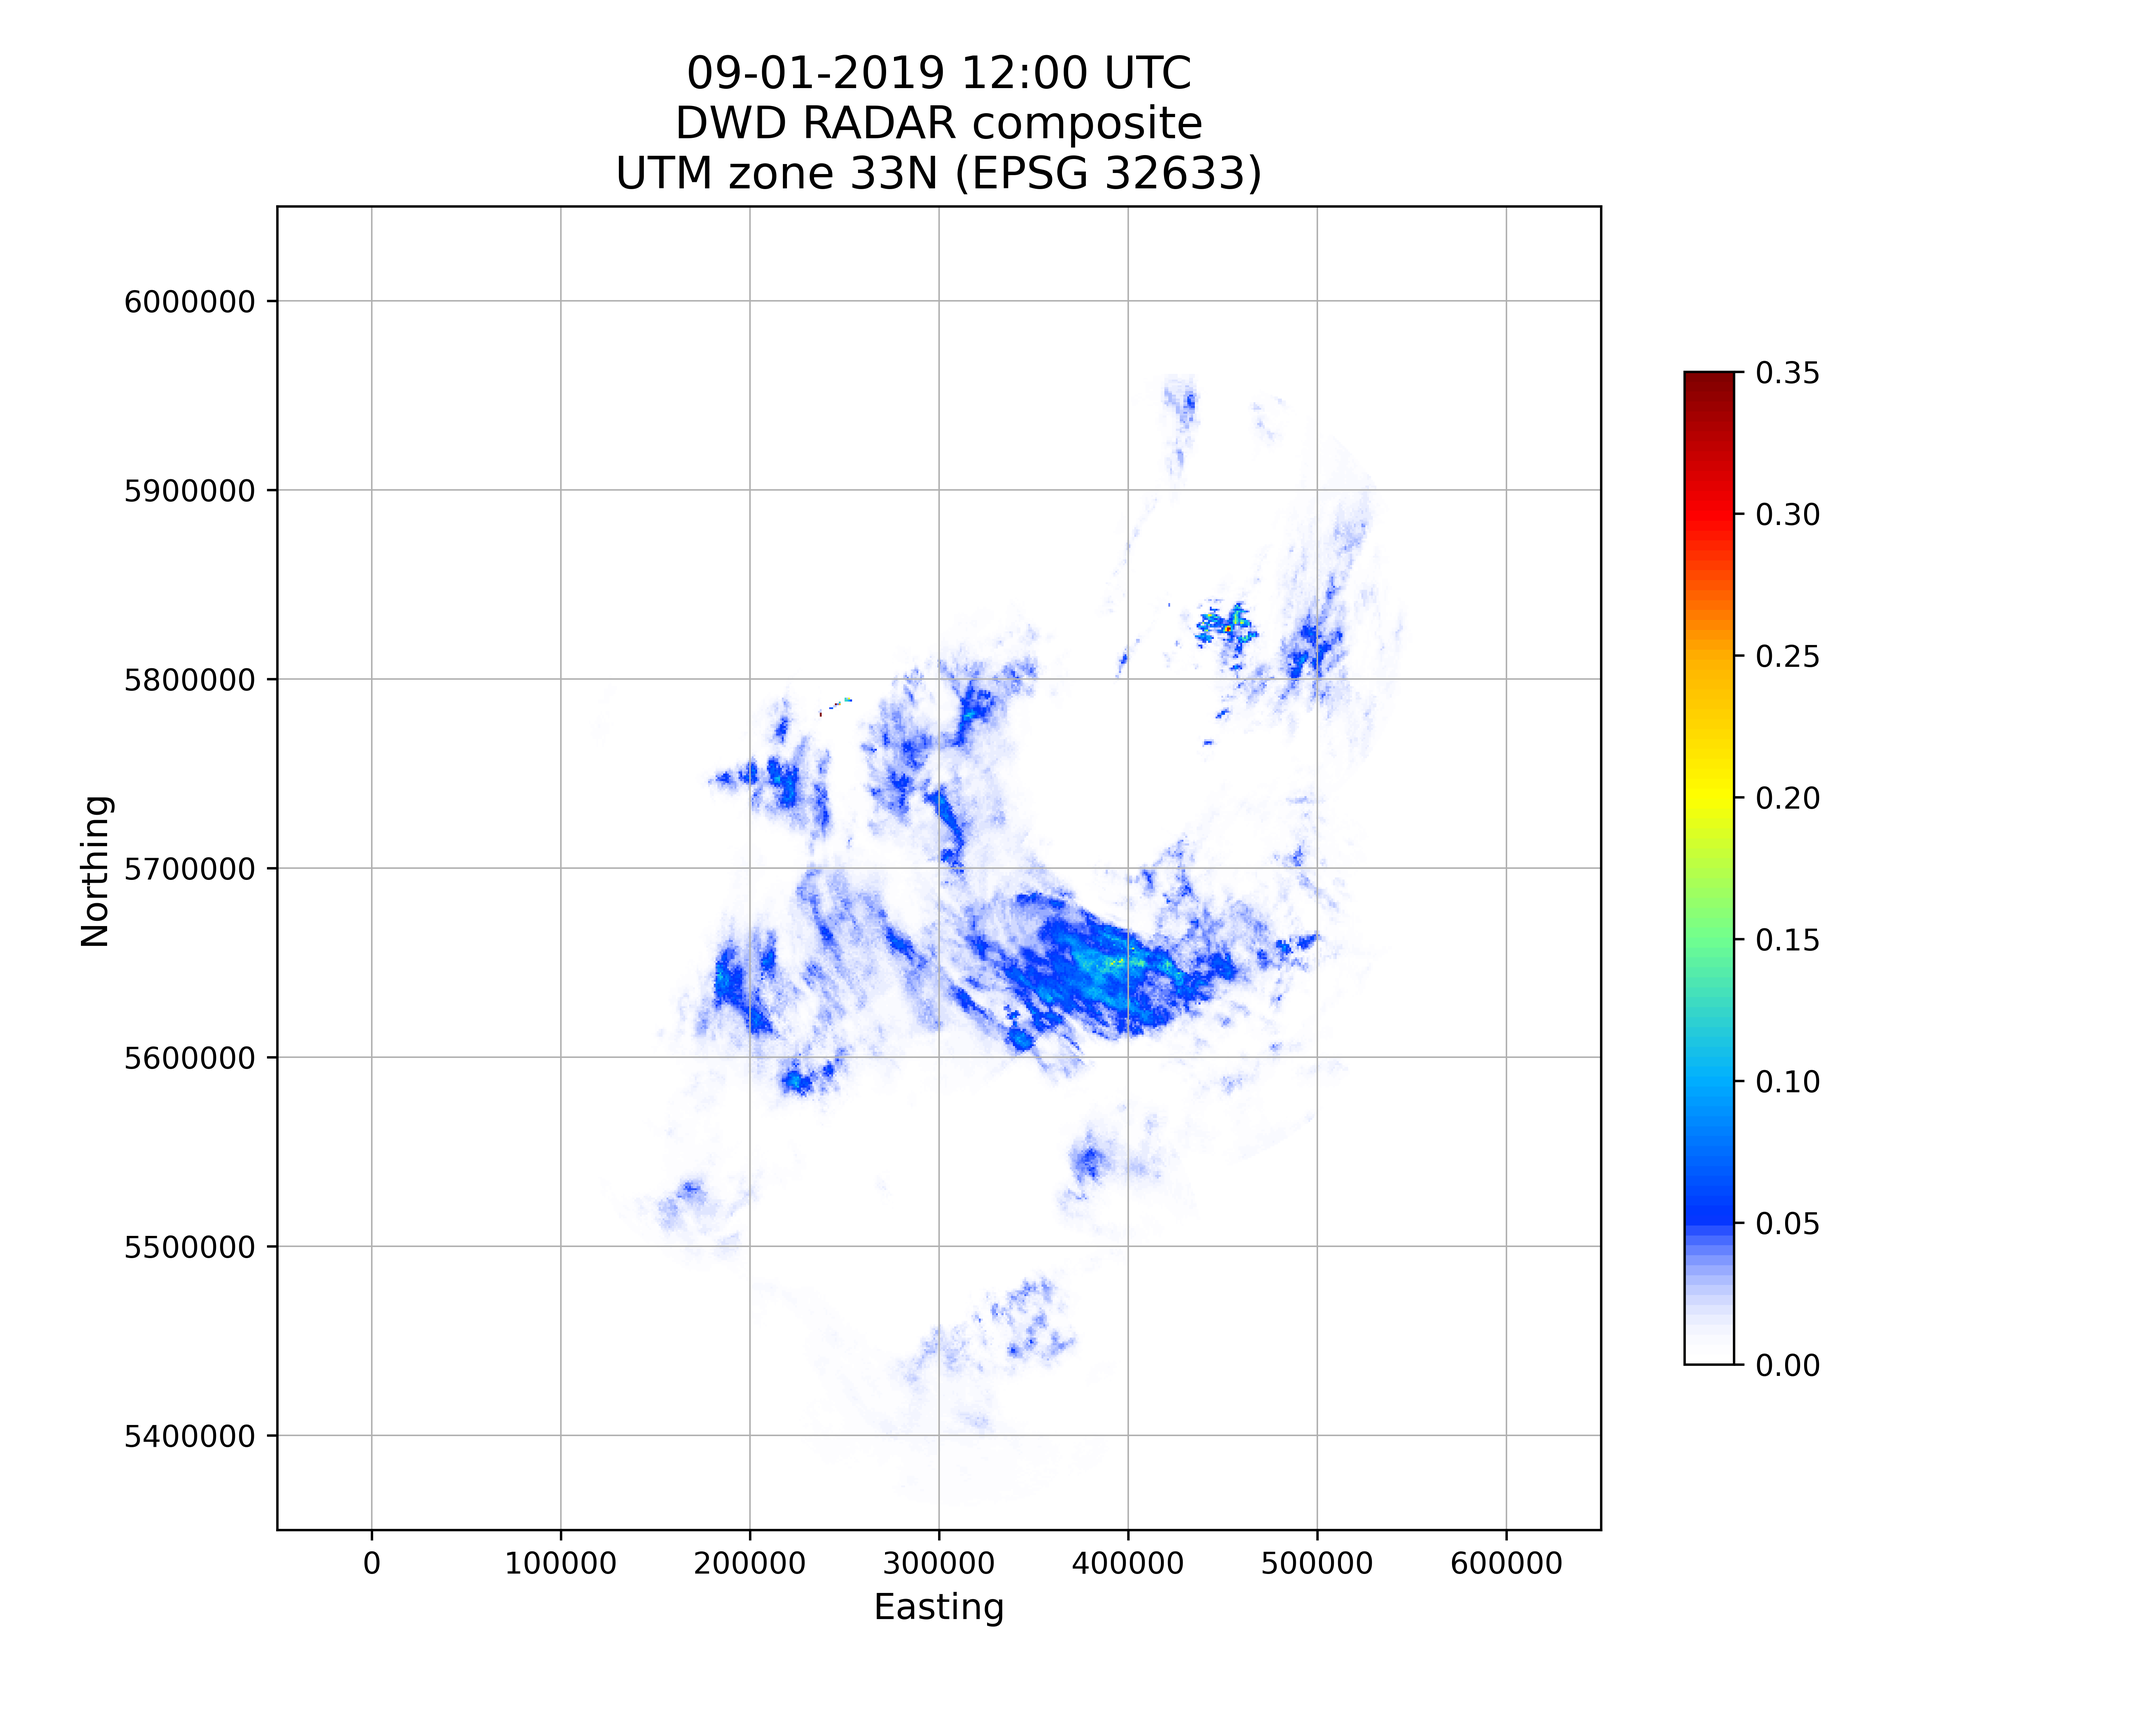
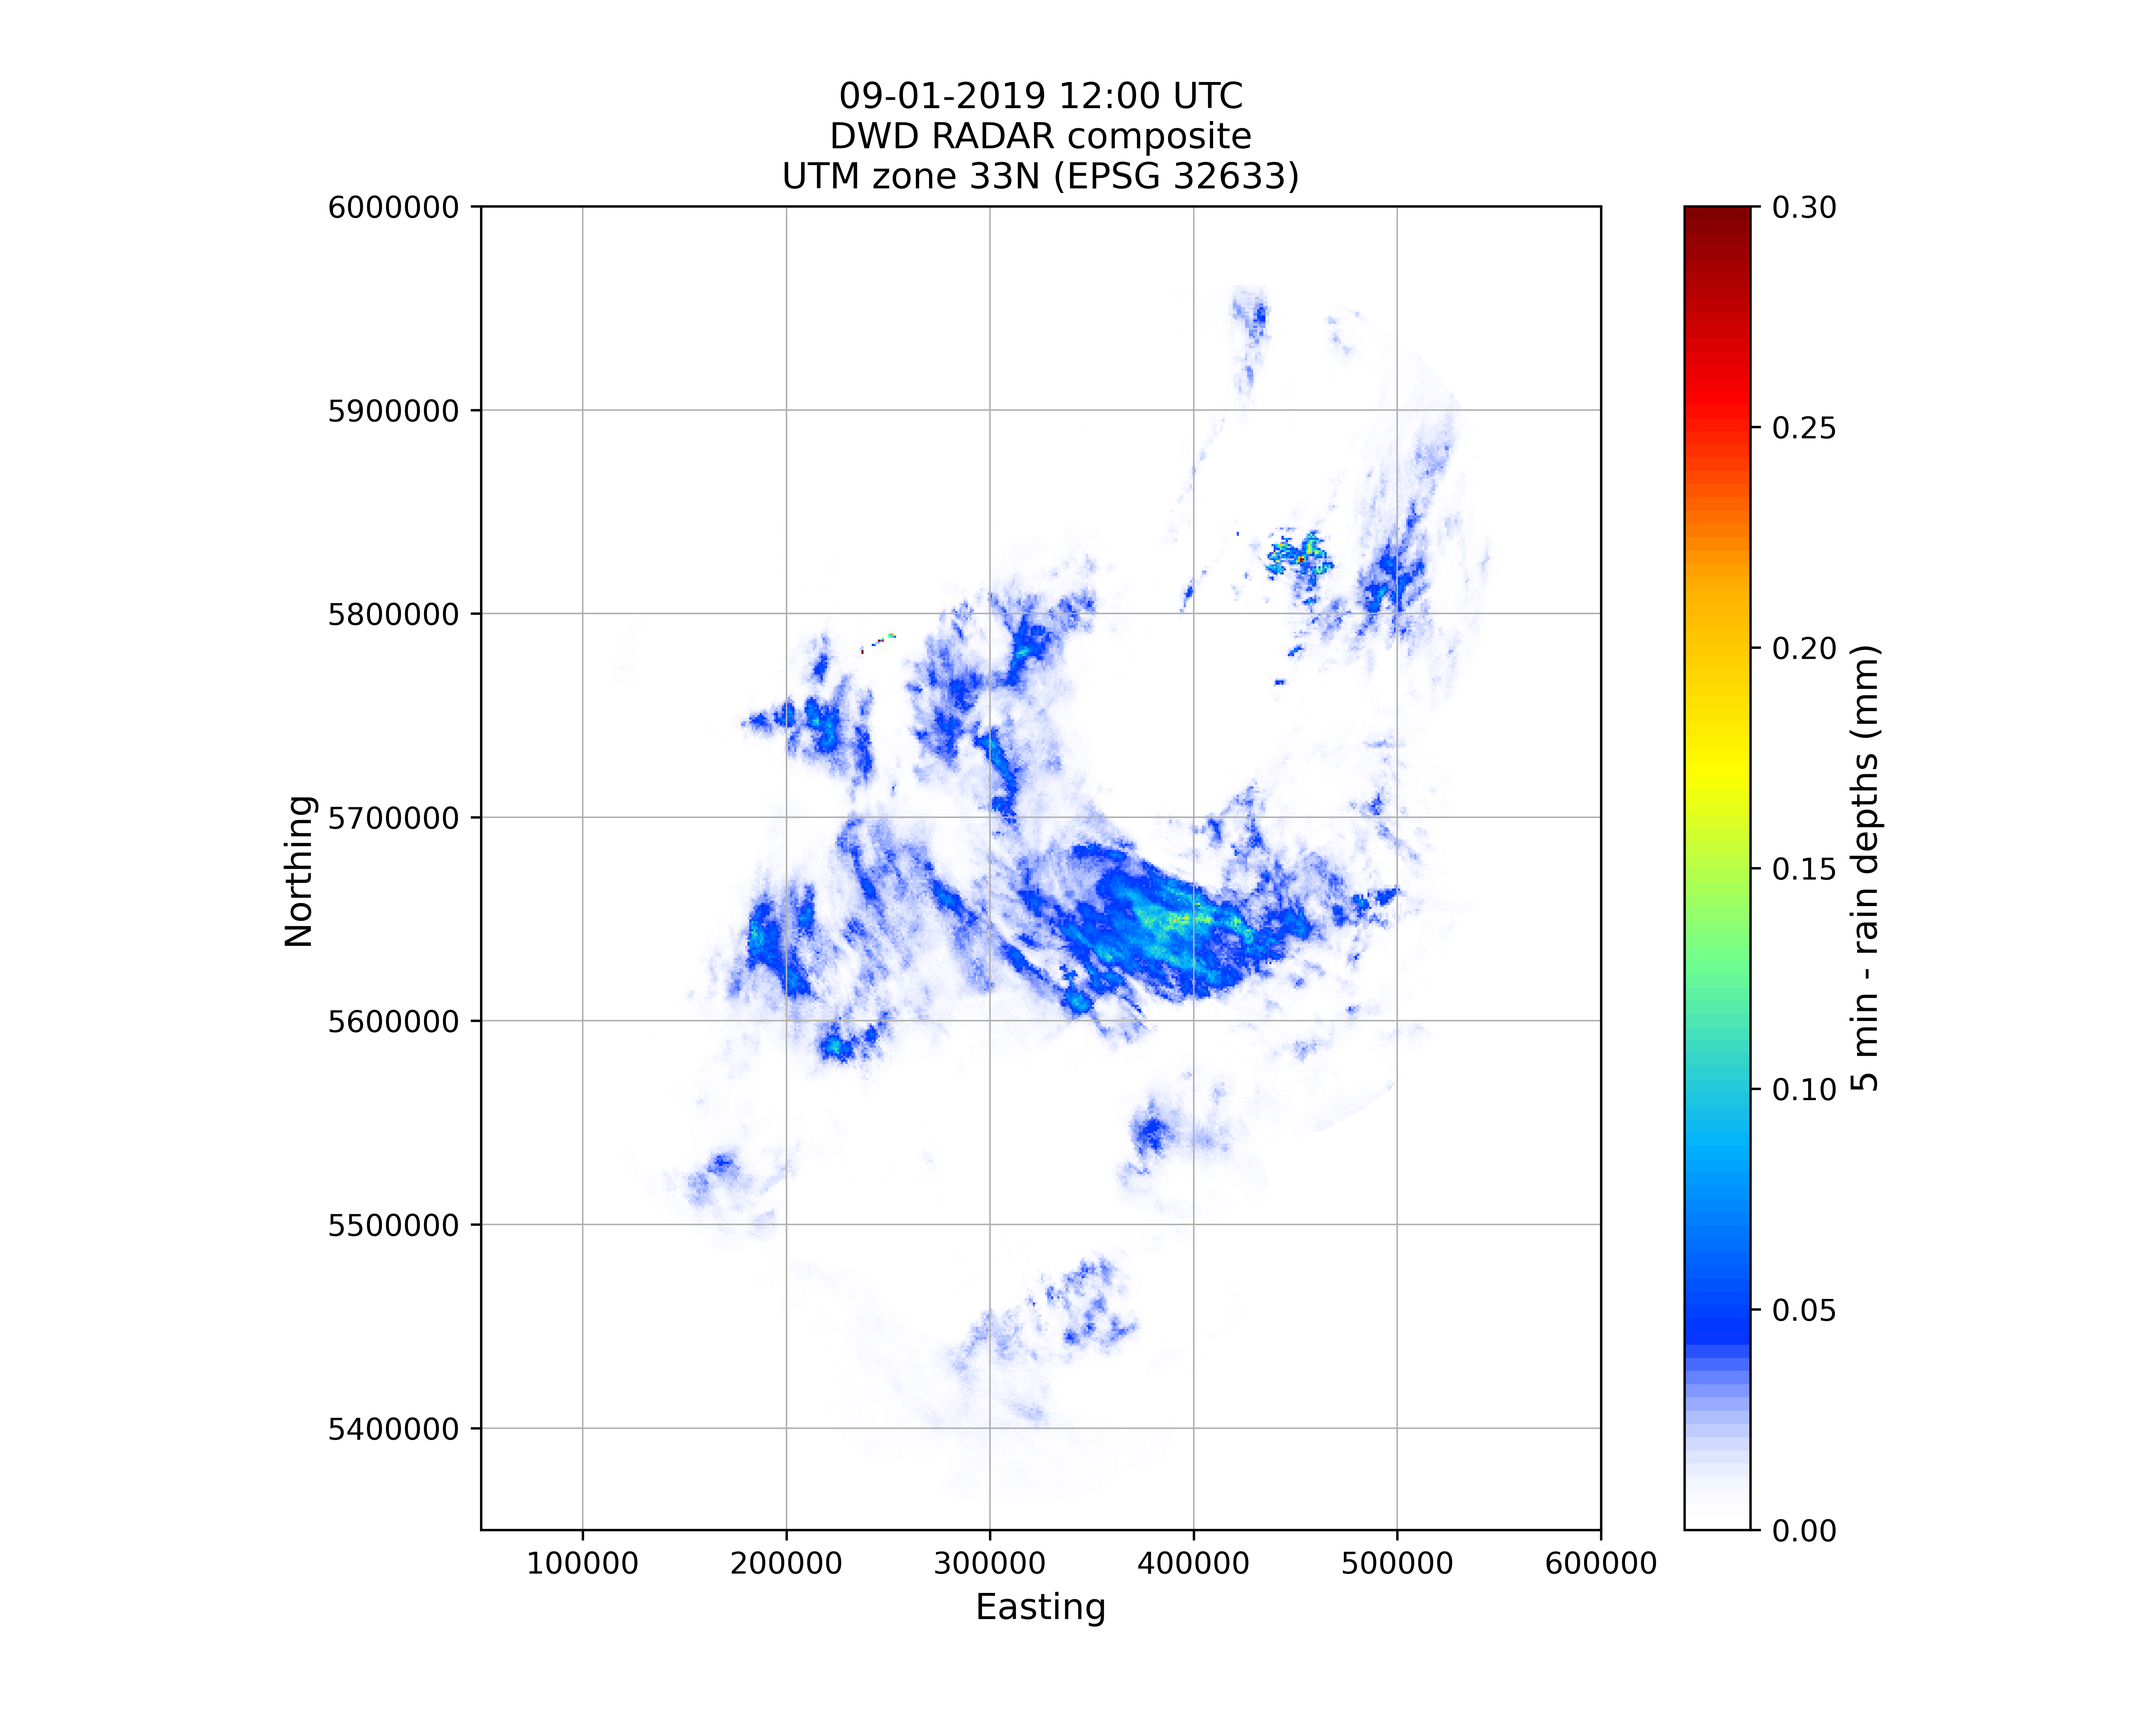
Change cbar and axes lim for composite.

diff --git a/code/example_1901091200.py b/code/example_1901091200.py
@@ -76,15 +76,18 @@ np.savetxt("geodata/griddata.txt", domain, fmt = "%.4f")
 
 fig = pl.figure(figsize=(10,8))
 ax = pl.subplot(111, aspect="equal") # aspect=111/71
-pm = pl.pcolormesh(xgrid, ygrid, domain, cmap=cm, vmax=0.35)
+pm = pl.pcolormesh(xgrid, ygrid, domain, cmap=cm, vmax=0.3, label="x")
+cbar = pl.colorbar(pm)
+cbar.set_label("5 min - rain depths (mm)", fontsize=12)
 ax.ticklabel_format(useOffset=False, style='plain')
-pl.colorbar(pm, shrink=0.75)
 pl.xlabel("Easting (m)")
 pl.ylabel("Northing (m)")
-pl.xlim(min(xgrid), max(xgrid))
-pl.ylim(min(ygrid), max(ygrid))
+# pl.xlim(min(xgrid), max(xgrid))
+# pl.ylim(min(ygrid), max(ygrid))
+pl.xlim(50000, 600000)
+pl.ylim(min(ygrid), 6000000)
 pl.grid(lw=0.5)
 pl.xlabel("Easting", fontsize=12)
 pl.ylabel("Northing", fontsize=12)
-pl.title('09-01-2019 12:00 UTC\nDWD RADAR composite\nUTM zone 33N (EPSG 32633)', fontsize=15)
+pl.title('09-01-2019 12:00 UTC\nDWD RADAR composite\nUTM zone 33N (EPSG 32633)', fontsize=12)
 pl.savefig(f"images/composite_{filename_drs[15:25]}_utm", dpi=600)
